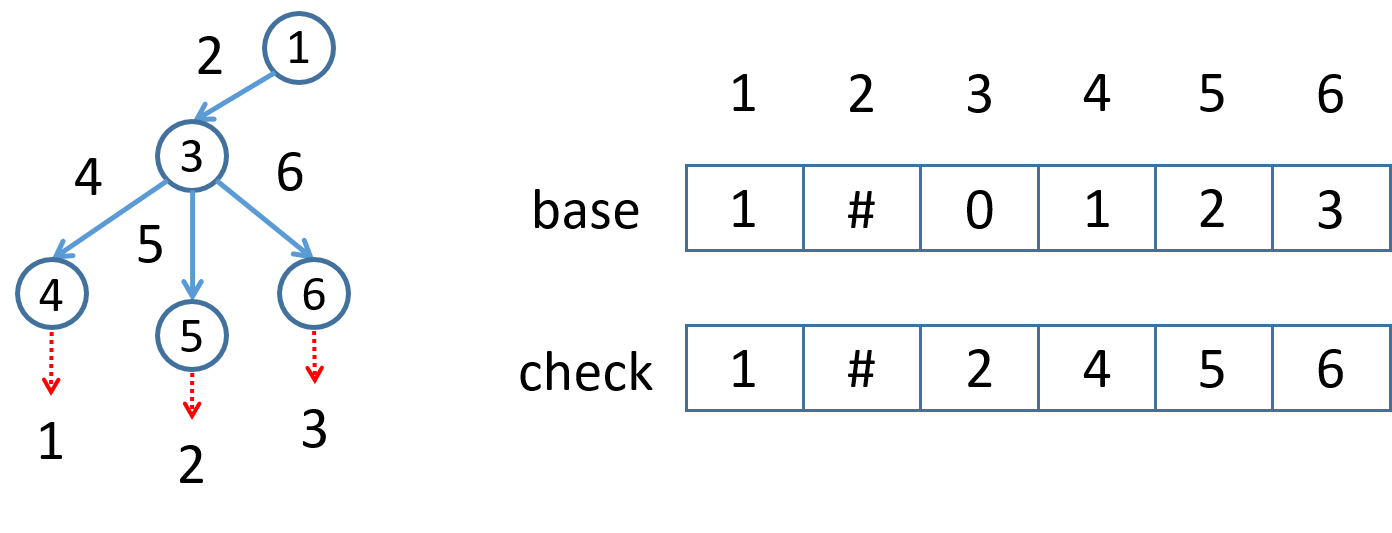
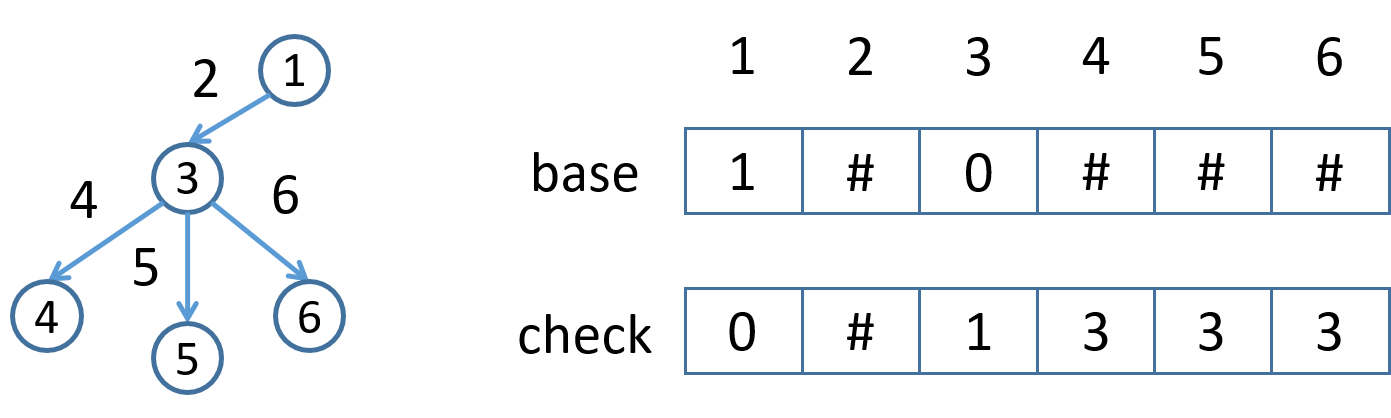
Update README and figure

diff --git a/README.md b/README.md
@@ -15,20 +15,23 @@ julia> Pkg.clone("https://github.com/hshindo/DoubleArrayTrie.jl.git")
 
 ## Double-Array
 Double-array is an ordered tree structure that realizes a trie data structure.
+Basically, it contains two internal arrays: `base` and `check`.
 
-It contains two arrays: `base` and `check`.
+Roughly speaking, `base` is an offset for child node indices.
+`check` is a flag to ensure that the child node exsits in a trie.
 
-In double-array, the following conditions must be hold.
-* child_id = base[id] + key
-* check[child_id] == id
+More specifically, a double-array must keep the following conditions:
+* child = `base`[parent] + key
+* `check`[child] == parent
 
 <p align="center"><img src="https://github.com/hshindo/DoubleArray.jl/blob/master/doublearray.png" width="500"></p>
 
-In the example,
-* 2 = base[1] + 1
-* check[2] == 1
-* 3 = base[2] + 2
-* check[3] == 2
+In the above example,
+* 3 = base[1] + 2
+* check[3] == 1
+* 4 = base[3] + 4
+* check[4] == 3
+and so on. Note that `#` indicates undefined.
 
 Looking up a key in a trie takes O(m) time where `m` is the key length.
 
